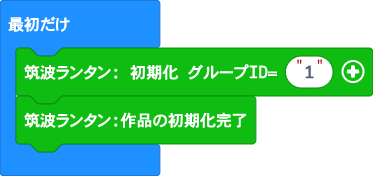
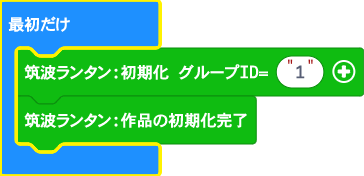
更新 pxt.json, main.blocks, custom.ts

diff --git a/custom.ts b/custom.ts
@@ -13,7 +13,8 @@ namespace TukubaLantern {
 
     let initialized = false
     let userInitialized = false
-    let strip: neopixel.Strip = neopixel.create(DigitalPin.P1, 16, NeoPixelMode.RGB)
+    let playStarted = false;
+    let strip: neopixel.Strip = null
     let userInits: Array<() => void> = []
     let mode: "U" | "P" = "U"
     let groupId: string = "1"
@@ -21,15 +22,15 @@ namespace TukubaLantern {
     let intervalBase: number = 300
     let interval: number = intervalBase;
     let colors: Array<number> = [];
-    let colorMap: [
-        0x000000,
-        0xff0000,
-        0x00ff00,
-        0x0000ff,
-        0xffff00,
-        0xff00ff,
-        0x00ffff,
-        0xffffff
+    let colorMap = [
+        neopixel.rgb(0, 0, 0),
+        neopixel.rgb(255, 0, 0),
+        neopixel.rgb(0, 255, 0),
+        neopixel.rgb(0, 0, 255),
+        neopixel.rgb(255, 255, 0),
+        neopixel.rgb(0, 255, 255),
+        neopixel.rgb(255, 255, 0),
+        neopixel.rgb(255, 255, 255),
     ]
 
     function lanternMusenGroup(rg: number): void {
@@ -51,7 +52,7 @@ namespace TukubaLantern {
     }
 
     //% blockId="lantern_init"
-    //% block="筑波ランタン: 初期化 グループID=%groupId || インターバルベース(ms)=%intervalBase 無線グループ=%radioGroup"
+    //% block="筑波ランタン:初期化 グループID=%groupId || インターバルベース(ms)=%intervalBase 無線グループ=%radioGroup"
     //% expandableArgumentMode="toggle"
     //% group="初期化と実行"
     //% weight=19
@@ -59,7 +60,7 @@ namespace TukubaLantern {
     //% intervalBase.defl=300 intervalBase.min=0 intervalBase.max=5000
     //% radioGroup.defl=200 radioGroup.min=0 radioGroup.max=255
     export function lanternInit(groupId: string, intervalBase?: number, radioGroup?: number): void {
-        if (!initialized) {
+        if (initialized) {
             return
         }
         lanternGroupID(groupId)
@@ -72,7 +73,7 @@ namespace TukubaLantern {
         strip = neopixel.create(DigitalPin.P1, 16, NeoPixelMode.RGB)
         // 起動時にグループIDを表示する
         basic.showString(groupId)
-        basic.pause(2000)
+        basic.pause(500)
         // ユーザモードにしておく
         inputData("U")
         // イベントループの登録（これにより「ずっと」ブロックの作成が不要になる）
@@ -93,10 +94,18 @@ namespace TukubaLantern {
     //% block="筑波ランタン:ループ処理"
     //% group="初期化と実行"
     //% weight=17
-    //% advanced=true
     //% deprecated=true
+    //% advanced=true
     export function lanternLoop(): void {
-        if (mode == "P") {
+        if (!initialized) {
+            return
+        }
+        if (mode === "P") {
+            if(!playStarted) {
+                // プログラムモードが始まったらLEDの表示をPにする
+                basic.showString("P")
+                playStarted = true
+            }
             if (colors.length === 0) {
                 inputData("U")
                 return
@@ -149,14 +158,18 @@ namespace TukubaLantern {
         }
         // 0 … 全てのグループが対象
         // 1-9 … 対象のランタングループ
-        const c1 = data.substr(1, 1)
         if (c0 === "0" || c0 === groupId) {
+            const c1 = data.substr(1, 1)
             if ("0123456789".includes(c1)) {
                 interval = intervalBase * parseInt(c1)
             } else {
                 interval = intervalBase
             }
-            colors = data.substr(2).split().map(c => colorMap[parseInt(c)])
+            // 現在プログラムモードだった場合に新しい色が消費されないようPモードを停止しておく
+            if (mode == "P") {
+                mode = "U"
+            }
+            colors = data.substr(2).split("").map(c => colorMap[parseInt(c)])
         }
     }
 
